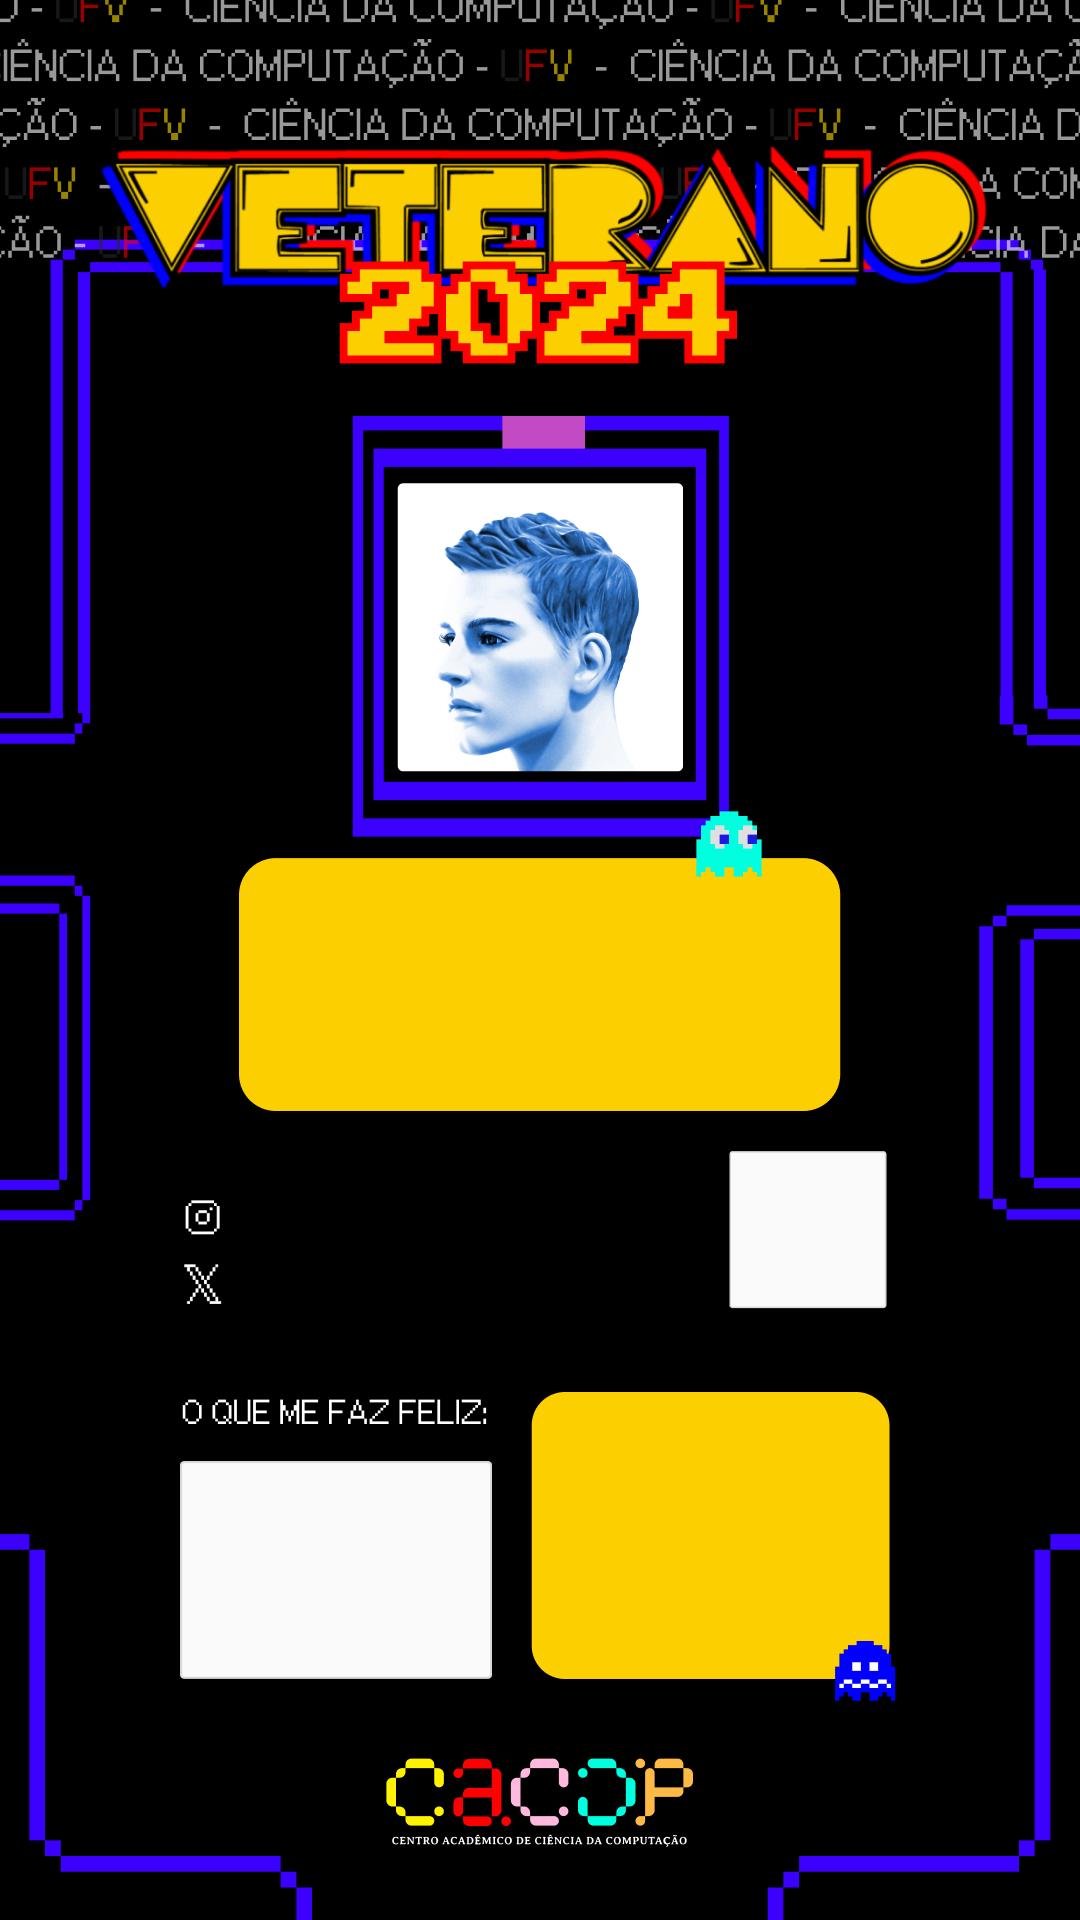
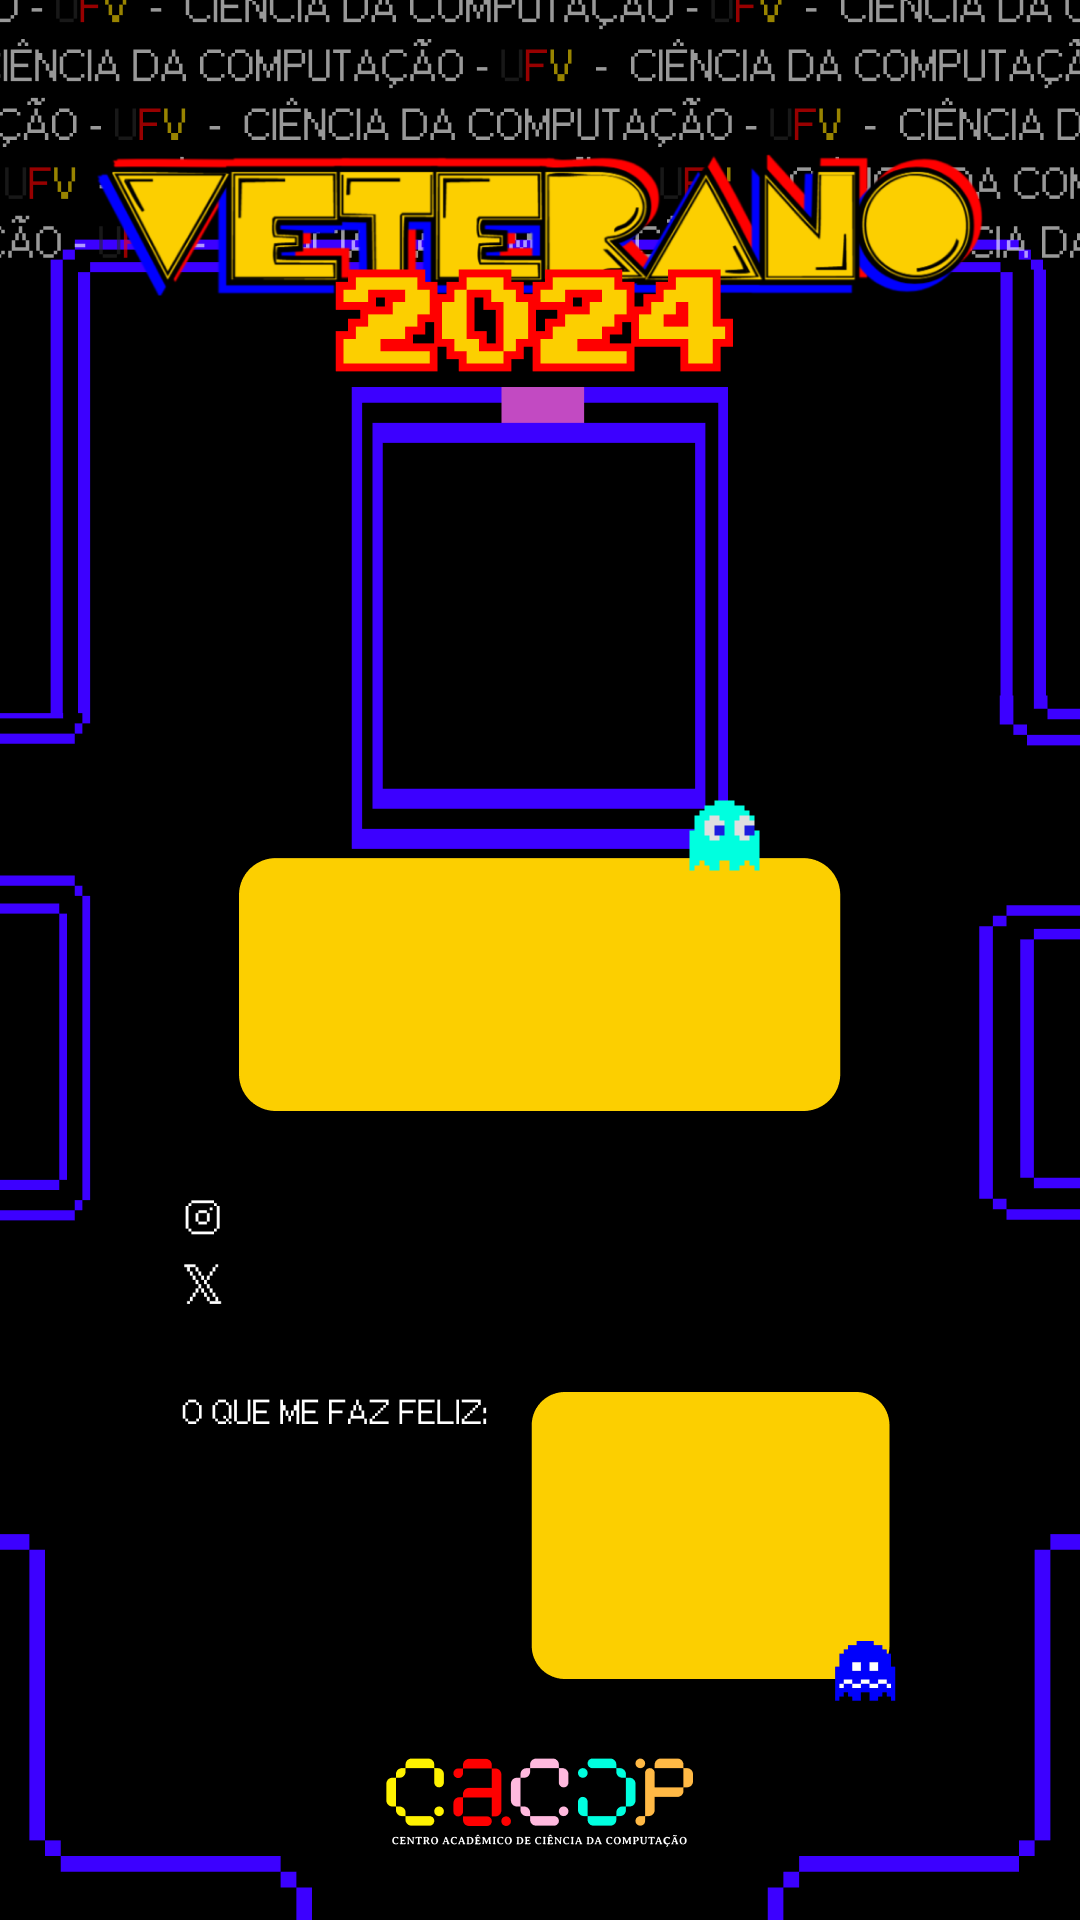
Url sendo baseada para o fundo

Changed region(s): [[0.0917, 0.0625, 0.9167, 0.4688], [0.1528, 0.75, 0.4583, 0.875], [0.6722, 0.5938, 0.825, 0.6875]]

diff --git a/assets/js/exportCard.js b/assets/js/exportCard.js
@@ -42,8 +42,12 @@ const formatarUser = (valor) => {
 };
 
 const exportCard = () => {
+    
     const btnFinalizar = document.getElementById('btn-finalizar-card');
-    const target = document.getElementById('canvas-target');
+    const target = document.getElementById('canvas-target'); 
+
+    
+
 
     if (!target) {
         alert("Erro: Alvo da exportação não encontrado.");
@@ -74,6 +78,22 @@ const exportCard = () => {
     document.getElementById('export-hobbies').innerText = document.getElementById('form-hobbie').value;
     document.getElementById('export-musica').innerText = document.getElementById('form-musica').value;
     document.getElementById('export-rel').innerText = document.querySelector('input[name="rel"]:checked')?.value || "";
+
+    const relInput = document.querySelector('input[name="rel"]:checked');
+    const relValue = relInput ? relInput.value : "";
+    let relHTML = relValue; // Começa só com o texto
+    
+    // Adiciona o ícone dependendo do valor
+    // style="margin-right: 15px" dá um espaço entre ícone e texto
+    if (relValue.includes("Solteiro")) {
+        relHTML = `<i class="fa-solid fa-hand-peace" style="margin-right: 15px;"></i> ${relValue}`;
+    } else if (relValue.includes("Namorando")) {
+        relHTML = `<i class="fa-solid fa-heart" style="margin-right: 15px;"></i> ${relValue}`;
+    } else if (relValue.includes("Enrolado")) {
+        relHTML = `<i class="fa-solid fa-spinner" style="margin-right: 15px;"></i> ${relValue}`;
+    }
+
+    document.getElementById('export-rel').innerHTML = relHTML;
 
     // AJUSTES DE FONTE
     ajustarFonte('export-nome', 53);

diff --git a/assets/js/backgroundCard.js b/assets/js/backgroundCard.js
@@ -1,0 +1,31 @@
+document.addEventListener('DOMContentLoaded', () => {
+    
+    // 1. Pegar o parâmetro "tipo" da URL (ex: ?tipo=dinossauros)
+    const params = new URLSearchParams(window.location.search);
+    const tipoAtual = params.get('tipo');
+
+    // 2. Mapa: Qual "tipo da URL" vira qual "classe CSS"
+    // Note que veteranos de anos diferentes usam o mesmo fundo
+    const temas = {
+        'calouros':      'bg-calouros',
+        'veteranos2025': 'bg-veteranos2025',
+        'veteranos2024': 'bg-veteranos2024',
+        'veteranos2023': 'bg-veteranos2023',
+        'formandos':     'bg-formandos',
+        'dinossauros':   'bg-dinossauros'
+    };
+
+    // 3. Define a classe (Se não achar ou for nulo, usa 'bg-calouros' como padrão)
+    const classeParaAplicar = temas[tipoAtual] || 'bg-calouros';
+
+    // 4. Aplica no elemento HTML
+    const cardAlvo = document.getElementById('canvas-target');
+
+    if (cardAlvo) {
+        // Adiciona a classe que tem a imagem de fundo correta
+        cardAlvo.classList.add(classeParaAplicar);
+        console.log(`Tema carregado: ${classeParaAplicar} (para o tipo: ${tipoAtual})`);
+    } else {
+        console.error("Erro: Div #canvas-target não encontrada.");
+    }
+});

diff --git a/forms_page.html b/forms_page.html
@@ -114,6 +114,7 @@
         </section>
 
         <div id="card-export-area" style="position: absolute; left: -9999px;">
+            <img id="export-foto" src="" style="position: absolute;">
             <div class="figma-template" id="canvas-target">
                 <img id="export-foto" src="" style="position: absolute;">
                 <div id="export-nome" style="position: absolute;"></div>
@@ -138,6 +139,7 @@
     <script src="https://cdnjs.cloudflare.com/ajax/libs/html2canvas/1.4.1/html2canvas.min.js"></script>
     <script src="https://cdnjs.cloudflare.com/ajax/libs/FileSaver.js/2.0.5/FileSaver.min.js"></script>
 
+    <script src="assets/js/backgroundCard.js"></script>
     <script src="assets/js/upload.js"></script>
     <script src="assets/js/exportCard.js"></script>
     <script src="assets/js/carregarAlbum.js"></script>

diff --git a/assets/css/forms.css b/assets/css/forms.css
@@ -271,13 +271,33 @@ body {
 .figma-template {
     width: 1080px;
     height: 1920px;
-    background-image: url('../img/fundoCalouro.png');
     background-size: cover;
     background-position: center;
     position: relative;
     background-repeat: no-repeat;
 }
+.bg-calouros {
+    background-image: url('../img/fundoCalouro.png');
+}
 
+.bg-veteranos2025 {
+    background-image: url('../img/fundo2025.png');
+}
+
+.bg-veteranos2024 {
+    background-image: url('../img/fundo2024.png');
+}
+
+.bg-veteranos2023{
+    background-image: url('../img/fundo2023.png');
+}
+
+.bg-formando{
+    background-image: url('../img/fundo2022.png');
+}
+.bg-dinossauros {
+    background-image: url('../img/fundoDINO.png');
+}
 #export-nome { 
     position: absolute;
     top: 896px; 

diff --git a/assets/js/tipoForm.js b/assets/js/tipoForm.js
@@ -75,7 +75,8 @@ document.addEventListener('DOMContentLoaded', () => {
         // 4. Redirecionamento após o fim da animação
         setTimeout(() => {
             // Redireciona para o arquivo HTML correspondente
-            window.location.href = `${destino}.html`;
+            // Envia para o formulário único carregando o "tipo" na URL
+        window.location.href = `forms_page.html?tipo=${destino}`;
 
         }, ANIMATION_DURATION + 200); // Espera a animação terminar
     }
